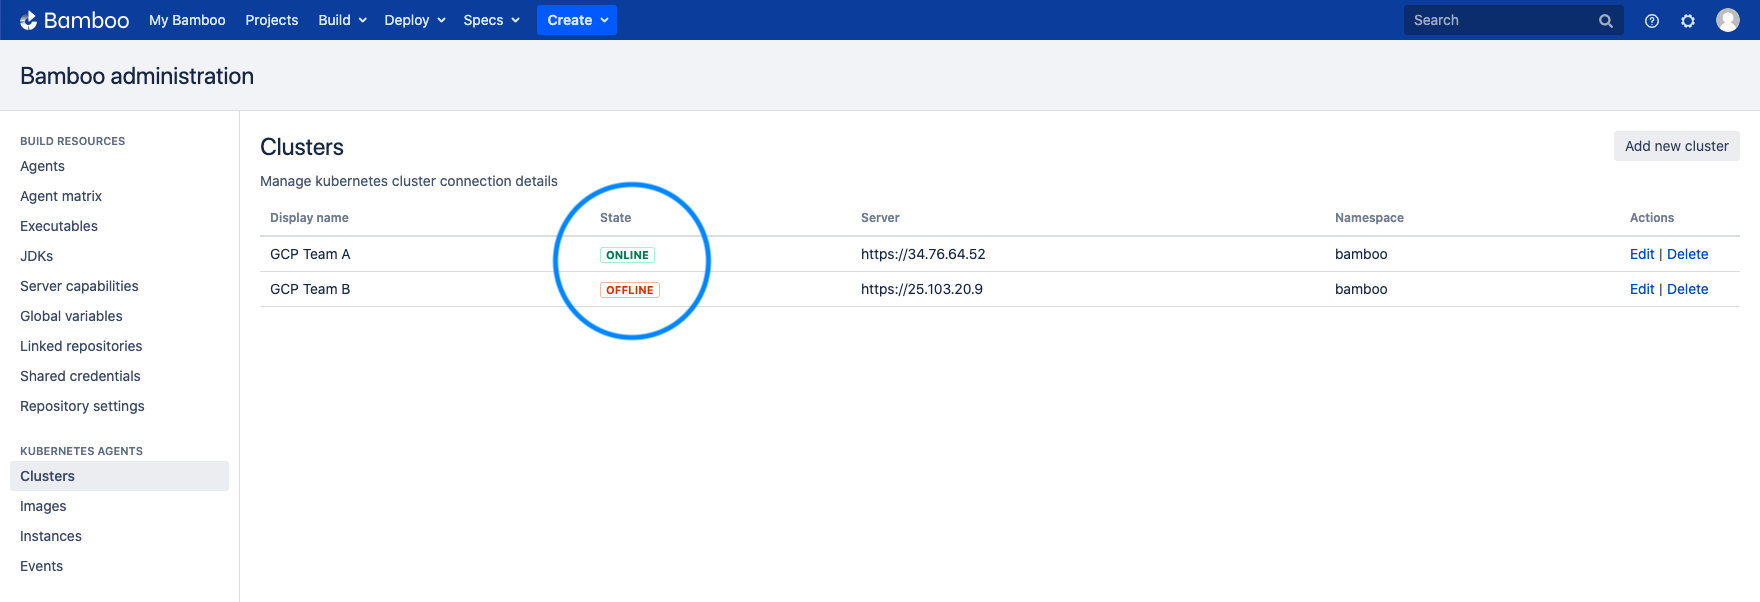
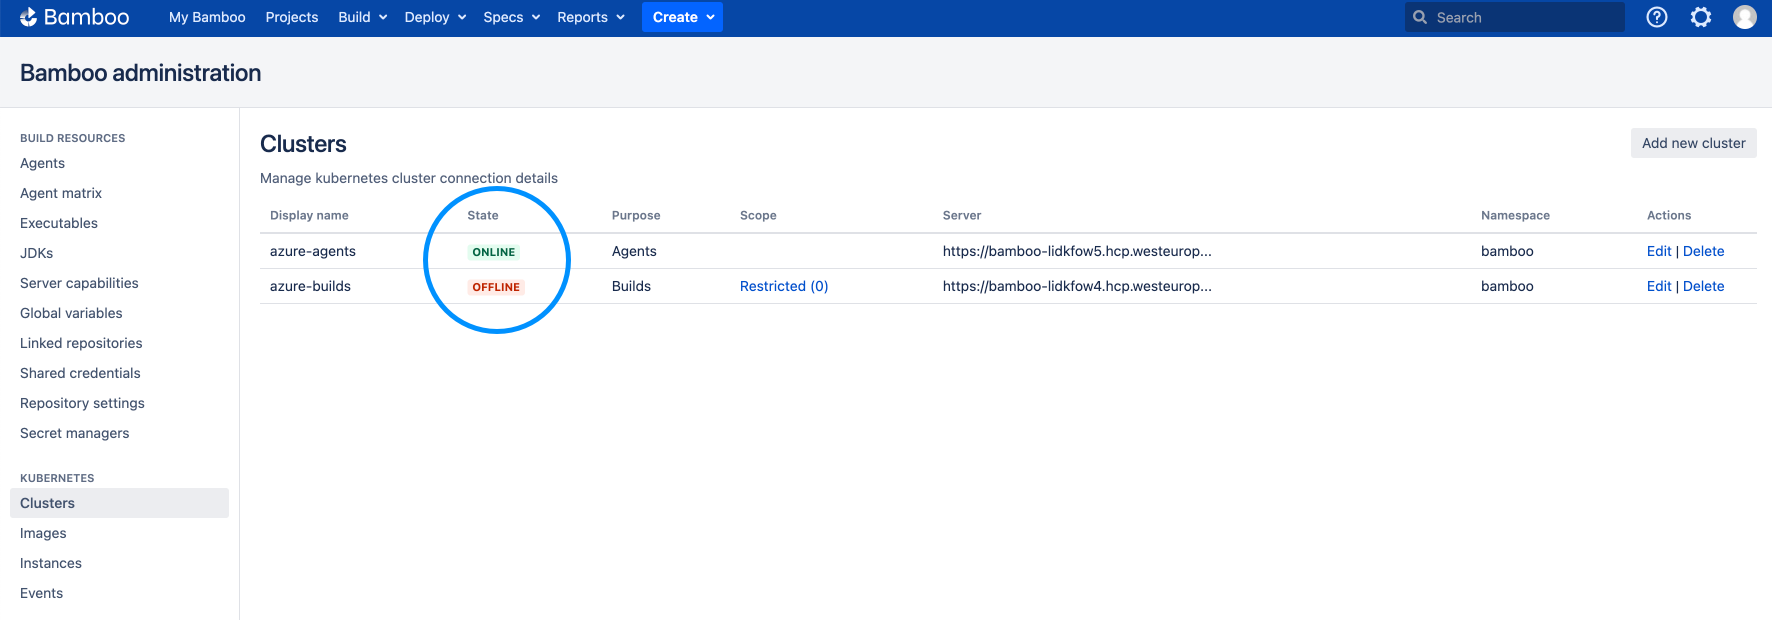
KSB cluster scoping

diff --git a/products/ksb/administration/clusters/clusters.md b/products/ksb/administration/clusters/clusters.md
@@ -12,6 +12,9 @@
         - [Generation: Kubernetes up to v1.23](/administration/clusters/clusters.md?id=token-generation-kubernetes-versions-up-to-v123)
         - [Generation: Kubernetes v1.24 onwards](/administration/clusters/clusters.md?id=token-generation-kubernetes-versions-from-v124-onwards)
         - [Token Usage](/administration/clusters/clusters.md?id=token-usage)
+- [Scope](/administration/clusters/clusters.md?id=scope)
+    - [Configuration](/administration/clusters/clusters.md?id=configuration)
+    - [Usage](/administration/clusters/clusters.md?id=usage)
 
 ## Assumptions
 
@@ -20,8 +23,6 @@ Having these assumptions makes the plugin opinionated, but reduces the complexit
 
 > As the capabilities of the plugin change over time, so will these assumptions evolve.
 > It is our intention to have as little assumptions as possible, making the plugin broadly applicable.
-
-- The Kubernetes version of the cluster is at least 1.9.0 (and at most 1.19.1).
 
 - Each (worker) node in the cluster is provisioned with at least 500MB of RAM and 0.25 vCPU. This caters for the execution of the smallest instance of a single agent Pod.
 Going lower on (multiples of this amount of) RAM could result in the agent containers crashing, and is not supported by the plugin.
@@ -121,7 +122,7 @@ A descriptive, free-form name which is used to distinguish this cluster from oth
 Each cluster connection has a *purpose*, which can be one of:
 
 - *Agents*: the cluster is used to host Bamboo agents (see [instances](/administration/instances/instances.md)).
-- *Builds*: the cluster can be used from Bamboo builds and deployments (see [cluster task](/tasks/cluster.md))
+- *Builds*: the cluster can be used from Bamboo builds and deployments (see [cluster task](/tasks/cluster.md) and [scope](/administration/clusters/clusters.md?id=scope) below).
 
 Once a cluster connection is created, its *purpose* can no longer be changed.
 
@@ -372,3 +373,43 @@ This output can now be used in the cluster configuration *Token* input field.
 
 <kbd>![cluster-auth-token](../../_media/screenshots/cluster_auth_token.png "Cluster Auth Token")</kbd>
 
+## Scope
+
+When creating a cluster of purpose *Builds*, its default scope is *global*. This implies that any (Build) Plan or
+(Deployment) Environment can access the cluster config trough the [Write Cluster Config task](/tasks/cluster.md).
+
+To avoid excessive and uncontrolled exposure of cluster resources, the scope of each cluster can be reduced
+to the Plans and Environments that are actually permitted to access the cluster.
+
+ ### Configuration
+ 
+ After defining a cluster of purpose *Builds*, click the *Global* link in the *Scope* column.
+ 
+ <kbd>![bamboo-scope-table-global](../../_media/screenshots/bamboo_scope_table_global.png "Bamboo Scope Table Global")</kbd>
+
+The cluster scope dialog appears:
+
+<kbd>![bamboo-scope-dialog-global](../../_media/screenshots/bamboo_scope_dialog_global.png "Bamboo Scope Dialog Global")</kbd>
+ 
+In order to restrict the scope, unselect the checkbox below the *Global* section first. The elements found below the Restricted section will now be enabled.
+ 
+Use the search box to filter the list of Projects and Deployments.
+
+<kbd>![bamboo-scope-dialog-search](../../_media/screenshots/bamboo_scope_dialog_search.png "Bamboo Scope Dialog Search")</kbd> 
+
+Select and add any combination of items to define the scope of the Secret Manager, given that:
+ 
+ - Selecting a Project implies granting access to all child Plans.
+ - Selecting a Deployment implies granting access to all child Environments.
+ 
+As a consequence, once a Project has been added its child Plans will no longer be returned in the search results. The same principle applies to Deployments and child Environments.
+ 
+Save changes when done. The table will now display *Restricted* in the *Scope* column.
+
+### Usage
+
+Writing the cluster configuration from a build or deployment not defined within the scope of the respective cluster will result in the following error in the build log.
+
+<kbd>![bamboo-scope-build-error](../../_media/screenshots/bamboo_scope_build_error.png "Bamboo Scope Build Error")</kbd>
+
+As a result, the build will fail.
